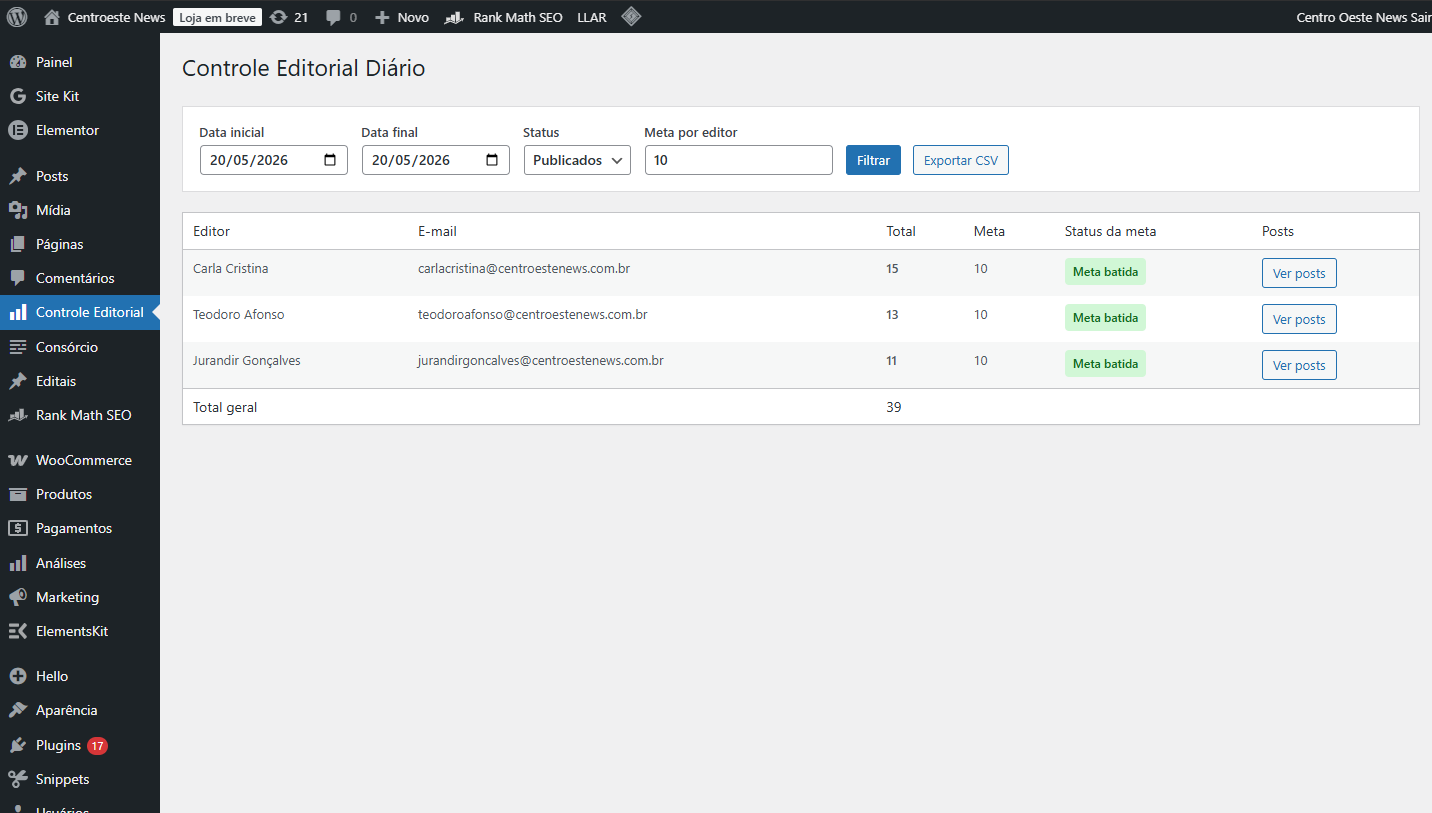
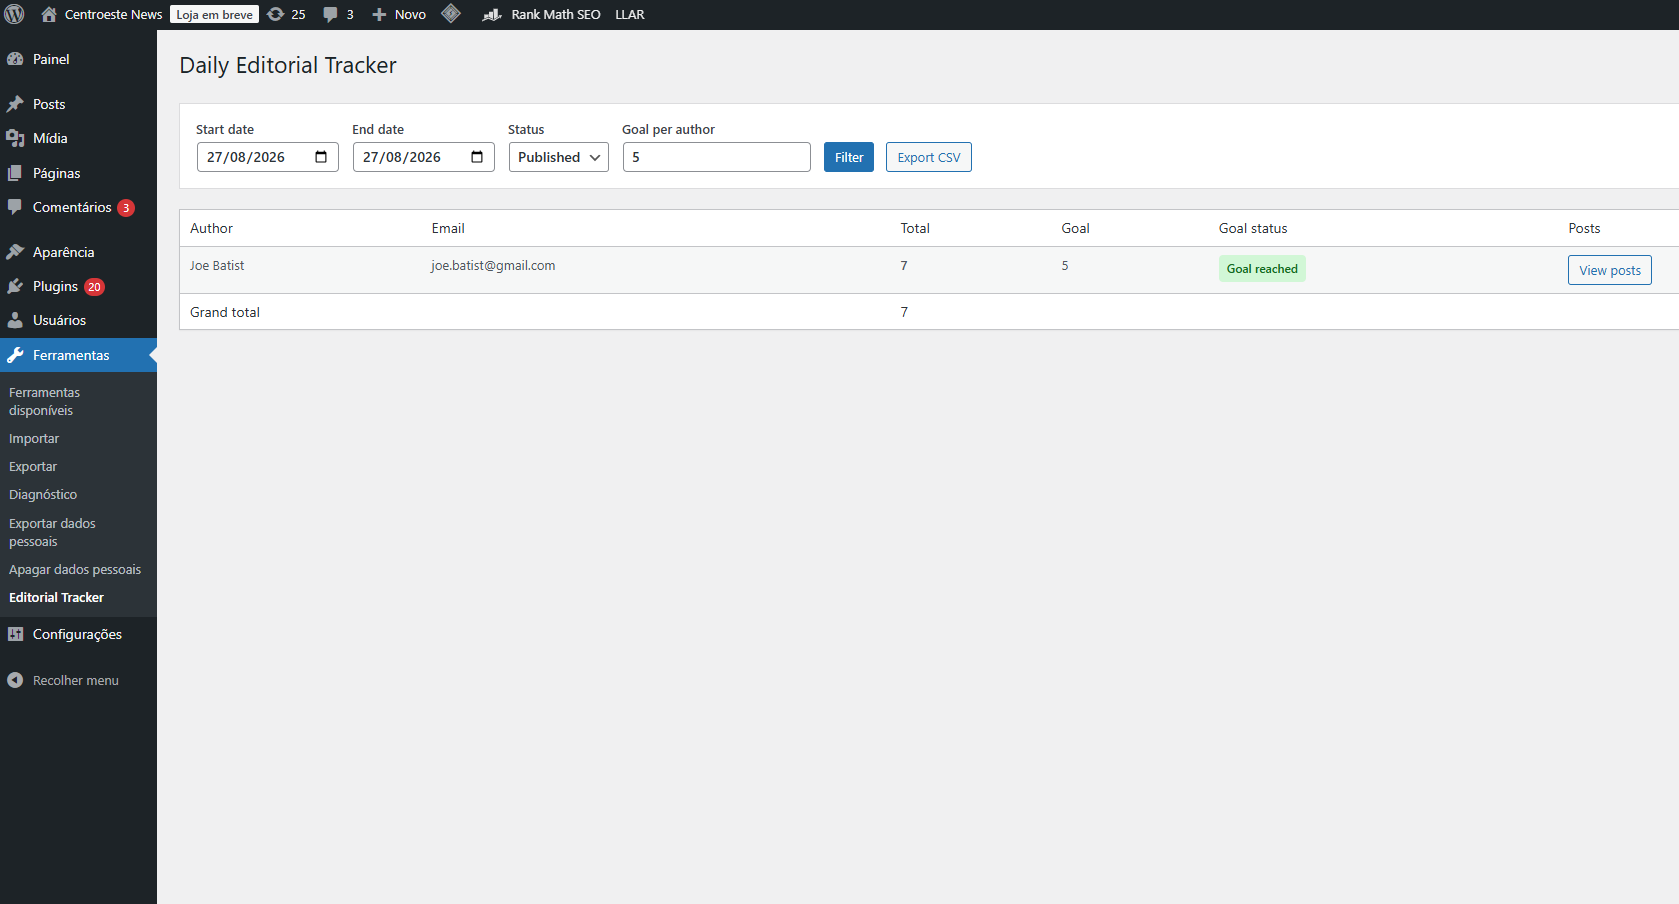
Release 1.2.0 - Editorial goals per author, fix Tested up to

diff --git a/assets/admin.css b/assets/admin.css
@@ -3,6 +3,49 @@
     margin-bottom: 20px;
 }
 
+.ced-goals {
+    background: #fff;
+    padding: 16px;
+    border: 1px solid #dcdcde;
+    margin-bottom: 20px;
+}
+
+.ced-goals h2 {
+    margin-top: 0;
+}
+
+.ced-goal-grid {
+    display: grid;
+    grid-template-columns: repeat(auto-fit, minmax(240px, 1fr));
+    gap: 12px;
+    margin: 16px 0;
+}
+
+.ced-goal-grid label {
+    display: flex;
+    align-items: center;
+    justify-content: space-between;
+    gap: 16px;
+    padding: 12px;
+    border: 1px solid #dcdcde;
+    border-radius: 4px;
+}
+
+.ced-goal-grid span {
+    font-weight: 600;
+}
+
+.ced-goal-grid small {
+    display: block;
+    margin-top: 2px;
+    color: #646970;
+    font-weight: 400;
+}
+
+.ced-goal-grid input {
+    width: 80px;
+}
+
 .ced-filtros {
     background: #fff;
     padding: 16px;

diff --git a/daily-editorial-tracker.php b/daily-editorial-tracker.php
@@ -3,10 +3,10 @@
  * Plugin Name: Daily Editorial Tracker
  * Plugin URI: https://github.com/devlailson/daily-editorial-tracker
  * Description: Track daily editorial activity by author, date range, post status, goals, and CSV reports.
- * Version: 1.1.2
+ * Version: 1.2.0
  * Requires at least: 6.0
  * Requires PHP: 7.4
- * Tested up to: 7.1
+ * Tested up to: 6.8
  * Author: Lailson Oliveira
  * Author URI: https://lailson.dev
  * License: GPLv2 or later
@@ -19,13 +19,15 @@ if (!defined('ABSPATH')) {
     exit;
 }
 
-define('DAILY_EDITORIAL_TRACKER_VERSION', '1.1.2');
+define('DAILY_EDITORIAL_TRACKER_VERSION', '1.2.0');
 define('DAILY_EDITORIAL_TRACKER_PLUGIN_URL', plugin_dir_url(__FILE__));
+define('DAILY_EDITORIAL_TRACKER_GOAL_META_KEY', '_daily_editorial_tracker_goal');
 
 add_action('init', 'daily_editorial_tracker_load_textdomain');
 add_action('admin_menu', 'daily_editorial_tracker_add_admin_menu');
 add_action('admin_enqueue_scripts', 'daily_editorial_tracker_admin_assets');
 add_action('admin_post_daily_editorial_tracker_export_csv', 'daily_editorial_tracker_export_csv');
+add_action('admin_post_daily_editorial_tracker_save_goals', 'daily_editorial_tracker_save_goals');
 add_action('wp_dashboard_setup', 'daily_editorial_tracker_register_dashboard_widget');
 
 /**
@@ -76,6 +78,56 @@ function daily_editorial_tracker_admin_assets($hook) {
 
 function daily_editorial_tracker_allowed_statuses() {
     return array('publish', 'draft', 'pending', 'future');
+}
+
+/**
+ * Get an author's saved editorial goal.
+ */
+function daily_editorial_tracker_get_author_goal($user_id) {
+    $goal = absint(get_user_meta($user_id, DAILY_EDITORIAL_TRACKER_GOAL_META_KEY, true));
+
+    return $goal > 0 ? $goal : 5;
+}
+
+/**
+ * Save the individual goals configured for authors.
+ */
+function daily_editorial_tracker_save_goals() {
+    if (!current_user_can('manage_options')) {
+        wp_die(esc_html__('You do not have permission to manage author goals.', 'daily-editorial-tracker'));
+    }
+
+    check_admin_referer('daily_editorial_tracker_save_goals');
+
+    $goals = isset($_POST['author_goals']) && is_array($_POST['author_goals'])
+        ? wp_unslash($_POST['author_goals'])
+        : array();
+
+    foreach ($goals as $user_id => $goal) {
+        $user_id = absint($user_id);
+        $goal    = absint($goal);
+
+        if (!$user_id || !get_userdata($user_id) || !user_can($user_id, 'edit_posts')) {
+            continue;
+        }
+
+        update_user_meta(
+            $user_id,
+            DAILY_EDITORIAL_TRACKER_GOAL_META_KEY,
+            max(1, min(9999, $goal))
+        );
+    }
+
+    wp_safe_redirect(
+        add_query_arg(
+            array(
+                'page'          => 'daily-editorial-tracker',
+                'goals-updated' => '1',
+            ),
+            admin_url('tools.php')
+        )
+    );
+    exit;
 }
 
 function daily_editorial_tracker_sanitize_date($date, $fallback) {
@@ -138,22 +190,62 @@ function daily_editorial_tracker_render_page() {
     $start_date = ($valid_filter_nonce && isset($_GET['start_date'])) ? daily_editorial_tracker_sanitize_date(sanitize_text_field(wp_unslash($_GET['start_date'])), $today) : $today;
     $end_date   = ($valid_filter_nonce && isset($_GET['end_date'])) ? daily_editorial_tracker_sanitize_date(sanitize_text_field(wp_unslash($_GET['end_date'])), $today) : $today;
     $status     = ($valid_filter_nonce && isset($_GET['status'])) ? sanitize_text_field(wp_unslash($_GET['status'])) : 'publish';
-    $goal       = ($valid_filter_nonce && isset($_GET['goal'])) ? absint($_GET['goal']) : 5;
-
-    if ($goal < 1) {
-        $goal = 1;
-    }
-
     if (!in_array($status, daily_editorial_tracker_allowed_statuses(), true)) {
         $status = 'publish';
     }
 
     $results = daily_editorial_tracker_get_report_data($start_date, $end_date, $status);
+    $authors = get_users(
+        array(
+            'capability' => 'edit_posts',
+            'fields'     => array('ID', 'display_name', 'user_email'),
+            'orderby'    => 'display_name',
+            'order'      => 'ASC',
+        )
+    );
     $grand_total = 0;
     ?>
 
     <div class="wrap ced-wrap">
         <h1><?php echo esc_html__('Daily Editorial Tracker', 'daily-editorial-tracker'); ?></h1>
+
+        <?php if (isset($_GET['goals-updated']) && '1' === sanitize_text_field(wp_unslash($_GET['goals-updated']))) : ?>
+            <div class="notice notice-success is-dismissible">
+                <p><?php echo esc_html__('Author goals saved successfully.', 'daily-editorial-tracker'); ?></p>
+            </div>
+        <?php endif; ?>
+
+        <div class="ced-goals">
+            <h2><?php echo esc_html__('Individual author goals', 'daily-editorial-tracker'); ?></h2>
+            <p><?php echo esc_html__('Set a different editorial goal for each author.', 'daily-editorial-tracker'); ?></p>
+
+            <form method="post" action="<?php echo esc_url(admin_url('admin-post.php')); ?>">
+                <input type="hidden" name="action" value="daily_editorial_tracker_save_goals">
+                <?php wp_nonce_field('daily_editorial_tracker_save_goals'); ?>
+
+                <div class="ced-goal-grid">
+                    <?php foreach ($authors as $author) : ?>
+                        <label>
+                            <span>
+                                <?php echo esc_html($author->display_name); ?>
+                                <small><?php echo esc_html($author->user_email); ?></small>
+                            </span>
+                            <input
+                                type="number"
+                                name="author_goals[<?php echo esc_attr($author->ID); ?>]"
+                                value="<?php echo esc_attr(daily_editorial_tracker_get_author_goal($author->ID)); ?>"
+                                min="1"
+                                max="9999"
+                            >
+                        </label>
+                    <?php endforeach; ?>
+                </div>
+
+                <button type="submit" class="button button-primary">
+                    <?php echo esc_html__('Save author goals', 'daily-editorial-tracker'); ?>
+                </button>
+            </form>
+        </div>
 
         <form method="get" class="ced-filtros">
             <input type="hidden" name="page" value="daily-editorial-tracker">
@@ -179,11 +271,6 @@ function daily_editorial_tracker_render_page() {
                 </select>
             </label>
 
-            <label>
-                <span><?php echo esc_html__('Goal per author', 'daily-editorial-tracker'); ?></span>
-                <input type="number" name="goal" value="<?php echo esc_attr($goal); ?>" min="1">
-            </label>
-
             <button class="button button-primary"><?php echo esc_html__('Filter', 'daily-editorial-tracker'); ?></button>
 
             <?php
@@ -191,8 +278,7 @@ function daily_editorial_tracker_render_page() {
                 admin_url(
                     'admin-post.php?action=daily_editorial_tracker_export_csv&start_date=' . rawurlencode($start_date) .
                     '&end_date=' . rawurlencode($end_date) .
-                    '&status=' . rawurlencode($status) .
-                    '&goal=' . rawurlencode($goal)
+                    '&status=' . rawurlencode($status)
                 ),
                 'daily_editorial_tracker_export_csv'
             );
@@ -221,6 +307,7 @@ function daily_editorial_tracker_render_page() {
                         <?php
                         $total = intval($item->total);
                         $grand_total += $total;
+                        $goal = daily_editorial_tracker_get_author_goal($item->ID);
                         $goal_reached = $total >= $goal;
                         ?>
                         <tr>
@@ -274,12 +361,6 @@ function daily_editorial_tracker_export_csv() {
     $start_date = isset($_GET['start_date']) ? daily_editorial_tracker_sanitize_date(sanitize_text_field(wp_unslash($_GET['start_date'])), $today) : $today;
     $end_date   = isset($_GET['end_date']) ? daily_editorial_tracker_sanitize_date(sanitize_text_field(wp_unslash($_GET['end_date'])), $today) : $today;
     $status     = isset($_GET['status']) ? sanitize_text_field(wp_unslash($_GET['status'])) : 'publish';
-    $goal       = isset($_GET['goal']) ? absint($_GET['goal']) : 5;
-
-    if ($goal < 1) {
-        $goal = 1;
-    }
-
     $results = daily_editorial_tracker_get_report_data($start_date, $end_date, $status);
 
     nocache_headers();
@@ -301,6 +382,7 @@ function daily_editorial_tracker_export_csv() {
 
     foreach ($results as $item) {
         $total = intval($item->total);
+        $goal  = daily_editorial_tracker_get_author_goal($item->ID);
 
         fputcsv(
             $output,
@@ -341,7 +423,7 @@ function daily_editorial_tracker_dashboard_widget_render() {
 
     if (empty($results)) {
         echo '<p>' . esc_html__('No posts published today.', 'daily-editorial-tracker') . '</p>';
-        echo '<p><a class="button button-primary" href="' . esc_url(admin_url('admin.php?page=daily-editorial-tracker')) . '">' . esc_html__('Open Editorial Tracker', 'daily-editorial-tracker') . '</a></p>';
+        echo '<p><a class="button button-primary" href="' . esc_url(admin_url('tools.php?page=daily-editorial-tracker')) . '">' . esc_html__('Open Editorial Tracker', 'daily-editorial-tracker') . '</a></p>';
         return;
     }
 
@@ -358,5 +440,5 @@ function daily_editorial_tracker_dashboard_widget_render() {
     }
 
     echo '</ul>';
-    echo '<p><a class="button button-primary" href="' . esc_url(admin_url('admin.php?page=daily-editorial-tracker')) . '">' . esc_html__('View full report', 'daily-editorial-tracker') . '</a></p>';
+    echo '<p><a class="button button-primary" href="' . esc_url(admin_url('tools.php?page=daily-editorial-tracker')) . '">' . esc_html__('View full report', 'daily-editorial-tracker') . '</a></p>';
 }
